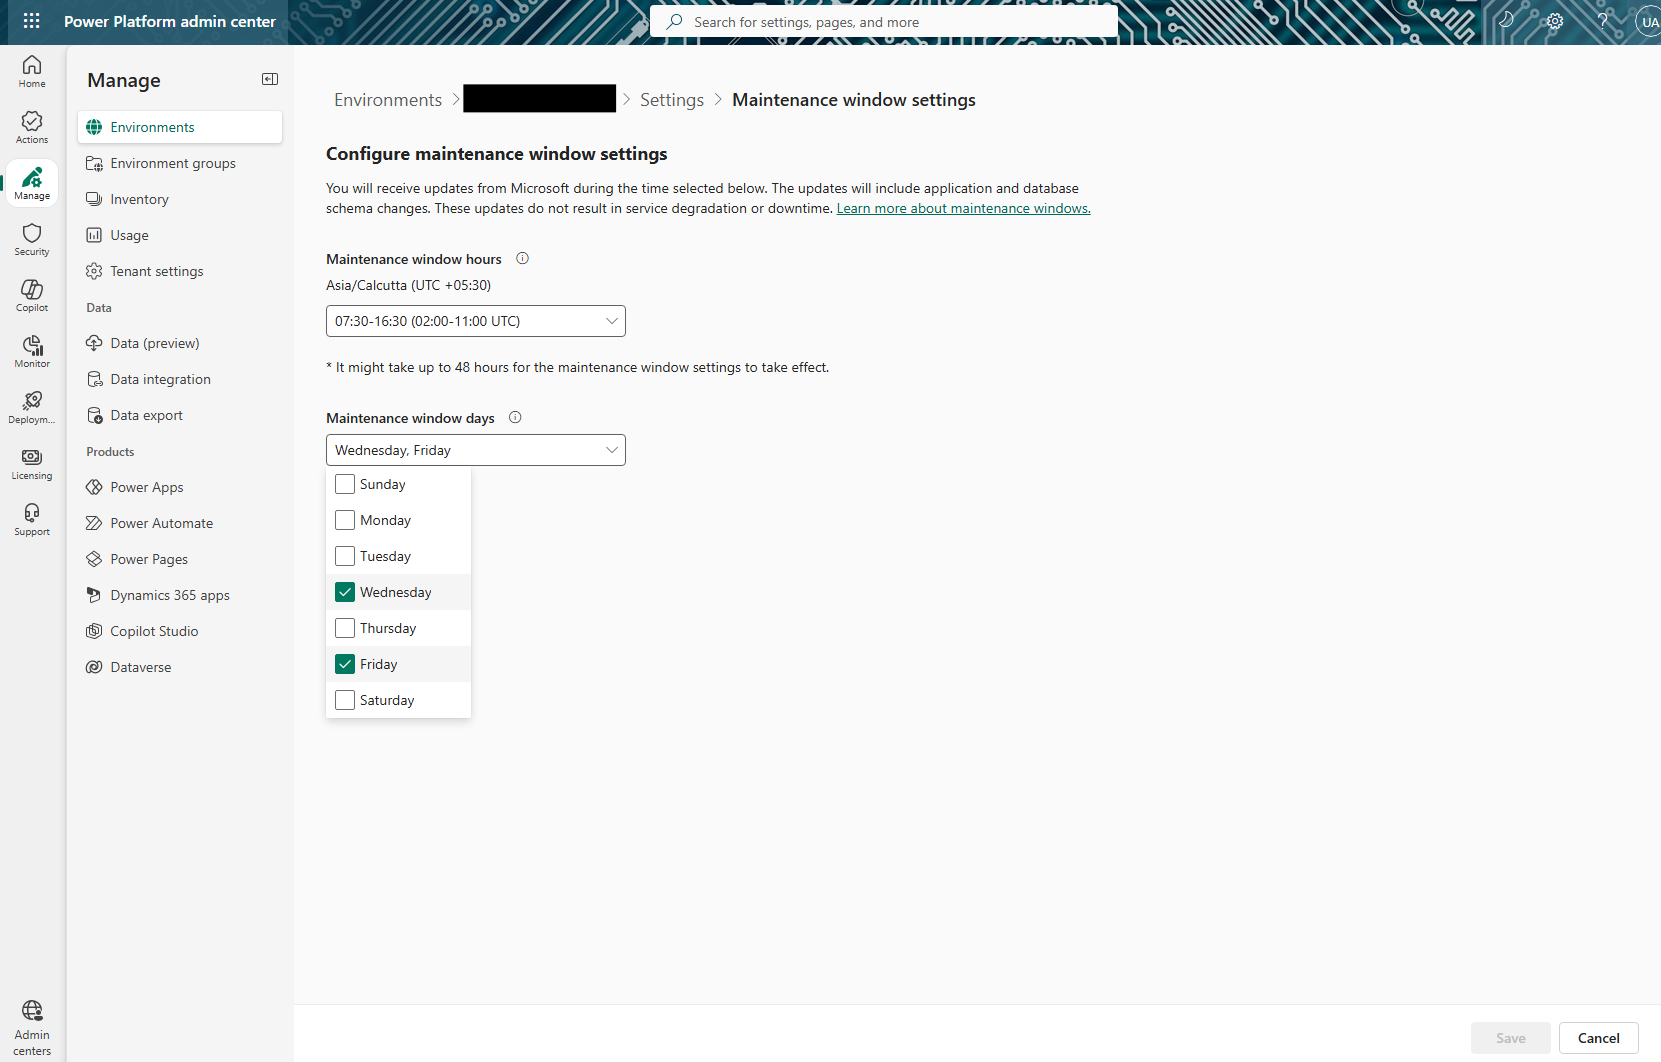
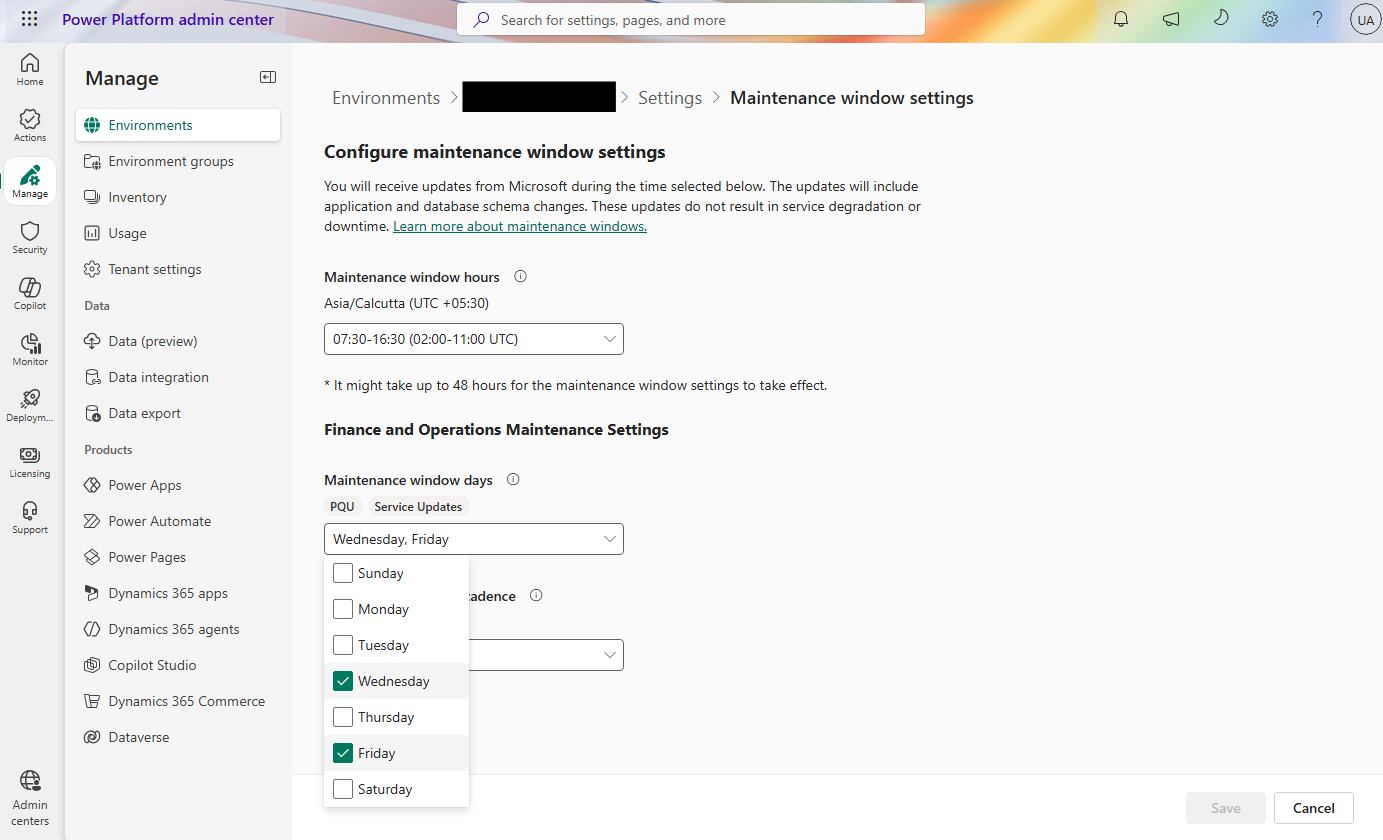
Updating Maintenance settings FAQ for PQUs (#22320)
* Add files via upload

* Update PQU selection instructions in FAQ

Clarified instructions for selecting preferred days to receive PQUs in Maintenance Settings.

* Change publication date to 08/10/2026

Updated the date for the quality updates FAQ.

---------

diff --git a/articles/fin-ops-core/dev-itpro/get-started/quality-updates-faq.md b/articles/fin-ops-core/dev-itpro/get-started/quality-updates-faq.md
@@ -4,7 +4,7 @@ description: Access answers to frequently asked questions about proactive qualit
 author: najaidee
 ms.author: najaidee
 ms.topic: faq
-ms.date: 06/16/2026
+ms.date: 08/10/2026
 ms.custom: bap-template
 ms.reviewer: johnmichalak
 audience: Developer, IT Pro
@@ -65,11 +65,10 @@ Follow these steps in the Power Platform Admin Center (PPAC):
 
    :::image type="content" source="../media/maintenance-settings-selection.png" alt-text="Screenshot of the Maintenance Settings option in the updates section.":::
 
-1. Choose your preferred days to receive PQUs.
+1. Choose your preferred days to receive PQUs by updating **Maintenance window days** under **Finance and Operations Maintenance Settings** section.
 
    :::image type="content" source="../media/maintenance-settings-day-selection.png" alt-text="Screenshot of the preferred day selection for receiving PQUs.":::
 
-1. Select Maintenance Cadence as "Every Update".
 1. Select **Save**.
 
    > [!NOTE]
